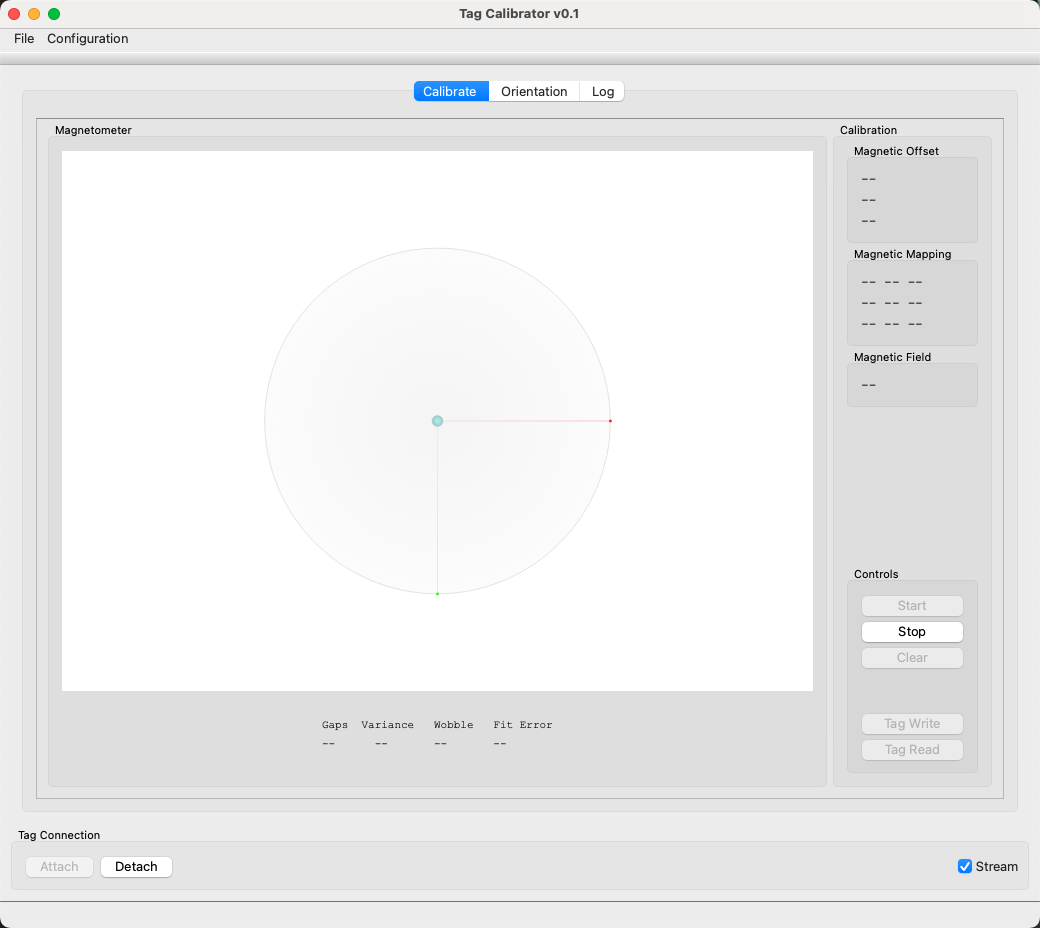
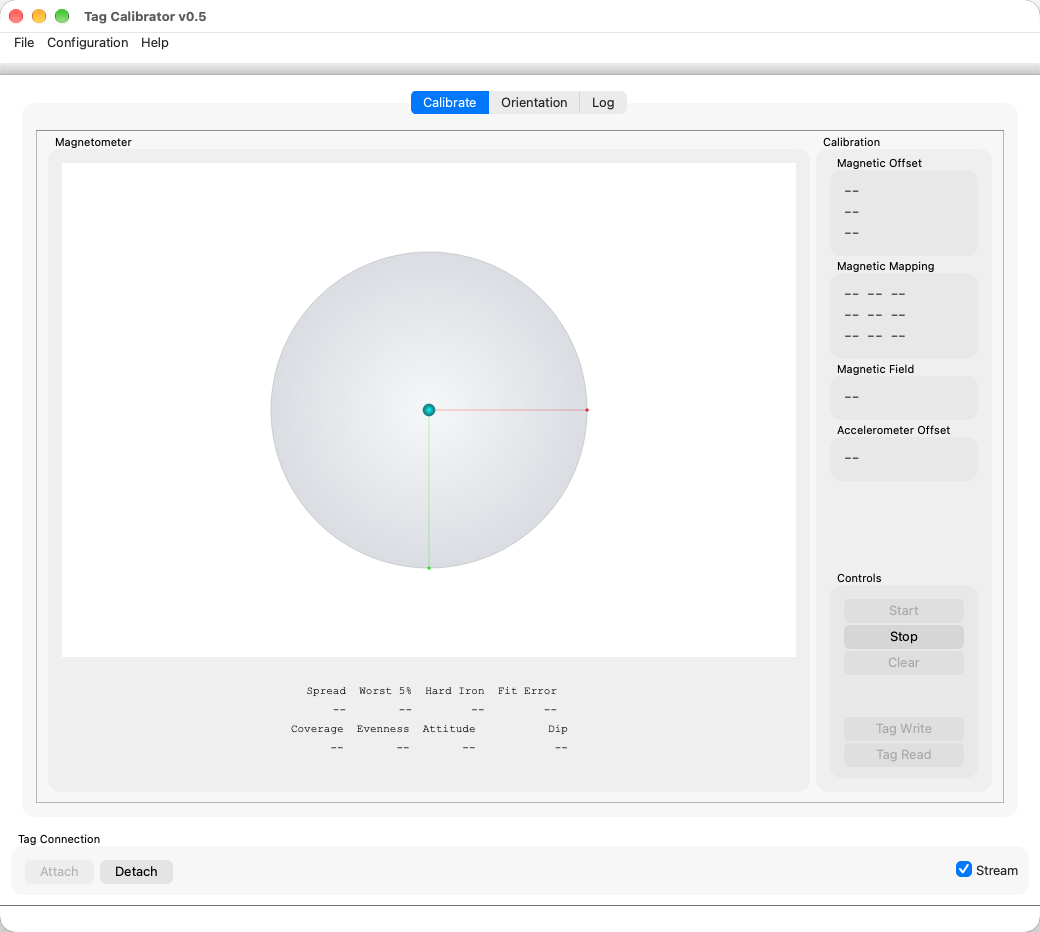
Help menus for qtcalibrate and qtprogram
HostUserGuide::addHelpMenu() adds a Help menu (User Guide, About) and
puts the menu bar in the window, as in sensorviz and qtmonitor.
qtcalibrate and qtprogram use it; btdataviz is left out, being
deprecated.

qtcalibrate's screenshot capture now waits for the first-show resize
before grabbing; the startup capture had included the desktop beside a
smaller window. Its seven documentation screenshots are recaptured
(they still showed v0.1).

diff --git a/host/common/qtuserguide.h b/host/common/qtuserguide.h
@@ -5,7 +5,9 @@
  * @details The user manual (host/docs, built by the `docs` target with MkDocs)
  *          is found wherever it is: packaged beside the application, in the
  *          build tree, or built in the source tree. Every Qt application's
- *          Help menu uses this, so they all look in the same places.
+ *          Help menu uses this, so they all look in the same places;
+ *          addHelpMenu() builds the usual Help menu for an application that
+ *          needs nothing more.
  *          Header-only, like the rest of host_common.
  */
 
@@ -14,8 +16,12 @@
 
 #include <QCoreApplication>
 #include <QDesktopServices>
+#include <QAction>
 #include <QDir>
 #include <QFileInfo>
+#include <QMenu>
+#include <QMenuBar>
+#include <QMainWindow>
 #include <QMessageBox>
 #include <QString>
 #include <QStringList>
@@ -105,6 +111,46 @@ inline bool open(QWidget *parent, const QString &title, const QString &app)
                               .arg(roots.join(QStringLiteral("\n"))));
   message.exec();
   return false;
+}
+
+/**
+ * @brief   Adds a Help menu with "<app> User Guide" and "About <app>".
+ *
+ * @details The guide entry calls open() for @p page; the About entry shows
+ *          @p about in QMessageBox::about(). The menu bar is put in the window
+ *          (QMenuBar::setNativeMenuBar(false)), as in sensorviz and qtmonitor,
+ *          so every application's menus are in the same place.
+ *
+ * @param[in] window  Window whose menu bar receives the menu; also the parent
+ *                    of the actions and of the dialogs they open.
+ * @param[in] name    Application name as the user sees it, e.g. "Tag Programmer".
+ * @param[in] page    The manual page's name under `apps/`, e.g. "qtprogram".
+ * @param[in] about   Text of the About box: version and purpose.
+ *
+ * @return  The Help menu, for an application to add more entries.
+ */
+inline QMenu *addHelpMenu(QMainWindow *window, const QString &name, const QString &page,
+                          const QString &about)
+{
+  QMenuBar *bar = window->menuBar();
+  bar->setNativeMenuBar(false);
+  QMenu *help = bar->addMenu(QCoreApplication::translate("HostUserGuide", "&Help"));
+  const QString guide =
+      QCoreApplication::translate("HostUserGuide", "%1 User Guide").arg(name);
+  QAction *guide_action = help->addAction(guide);
+  guide_action->setToolTip(
+      QCoreApplication::translate("HostUserGuide", "Open the %1 page of the user manual")
+          .arg(name));
+  QObject::connect(guide_action, &QAction::triggered, window,
+                   [window, guide, page]() { open(window, guide, page); });
+  const QString about_title =
+      QCoreApplication::translate("HostUserGuide", "About %1").arg(name);
+  QAction *about_action = help->addAction(about_title);
+  QObject::connect(about_action, &QAction::triggered, window,
+                   [window, about_title, about]() {
+                     QMessageBox::about(window, about_title, about);
+                   });
+  return help;
 }
 
 } // namespace HostUserGuide

diff --git a/host/applications/qtcalibrate/mainwindow.cpp b/host/applications/qtcalibrate/mainwindow.cpp
@@ -1,6 +1,7 @@
 
 #include <QMainWindow>
 #include <QApplication>
+#include "qtuserguide.h"
 #include <QDebug>
 #include <QDir>
 #include <QEventLoop>
@@ -174,6 +175,11 @@ MainWindow::MainWindow(const MainWindowOptions &options, QWidget *parent)
 
   logWindowInit();
   orientationControlsInit();
+  // After orientationControlsInit(), so Help is the last menu.
+  HostUserGuide::addHelpMenu(
+      this, tr("Tag Calibrator"), QStringLiteral("qtcalibrate"),
+      tr("%1\n\nCollect magnetometer samples from a tag through its USB base, "
+         "fit its magnetometer calibration, and save it to the tag.").arg(title_string));
   resetCalibrationDisplay();
   ui.actionSave_Sample_Capture->setEnabled(false);
 
@@ -834,6 +840,12 @@ bool MainWindow::saveCurrentScreenshot(const QString &path)
   raise();
   activateWindow();
   qApp->processEvents();
+  // On a first show, macOS applies the resize after a few event-loop turns;
+  // grabbing at once captured the smaller natural size inside a 1040-wide
+  // rectangle, with the desktop beside it.
+  QEventLoop settle;
+  QTimer::singleShot(250, &settle, &QEventLoop::quit);
+  settle.exec();
   repaint();
   qApp->processEvents();
 

diff --git a/host/applications/qtprogram/mainwindow.cpp b/host/applications/qtprogram/mainwindow.cpp
@@ -1,6 +1,7 @@
 
 #include <QMainWindow>
 #include <QDate>
+#include "qtuserguide.h"
 #include <QDateTime>
 #include <QDebug>
 #include <QFile>
@@ -63,6 +64,10 @@ MainWindow::MainWindow(QWidget *parent) : QMainWindow(parent) {
   // Change Main Window title
 
   setWindowTitle(QString(title_string));
+  HostUserGuide::addHelpMenu(
+      this, tr("Tag Programmer"), QStringLiteral("qtprogram"),
+      tr("%1\n\nErase, program and test a tag's firmware through a "
+         "programmer or USB base.").arg(title_string));
 
   // Find base
 

diff --git a/host/applications/qtcalibrate/README.md b/host/applications/qtcalibrate/README.md
@@ -178,6 +178,10 @@ The orientation view has a top-level `Configuration` menu and matching context
 menu entries for declination and battery-forward display convention. Those are
 display settings only; they do not change stored calibration constants.
 
+The menu bar is in the window, as in sensorviz and qtmonitor. **Help** (Tag
+Calibrator User Guide, About) is added by `HostUserGuide::addHelpMenu()` from
+`host/common/qtuserguide.h`, after the Configuration menu so it is last.
+
 The log level combo in the log pane selects what reaches the log window; it
 opens at `INFO`.
 

diff --git a/host/docs/src/apps/qtcalibrate.md b/host/docs/src/apps/qtcalibrate.md
@@ -3,6 +3,8 @@
 Use Qt Calibrate to collect calibration data and generate calibration values
 for supported sensors.
 
+**Help ▸ Tag Calibrator User Guide** opens this page.
+
 ## Before You Start
 
 - Connect the tag or base station.

diff --git a/host/docs/src/apps/qtprogram.md b/host/docs/src/apps/qtprogram.md
@@ -1,6 +1,7 @@
 # Qt Program
 
 Use Qt Program to configure and program supported tags.
+**Help ▸ Tag Programmer User Guide** opens this page.
 
 ## Before You Start
 
